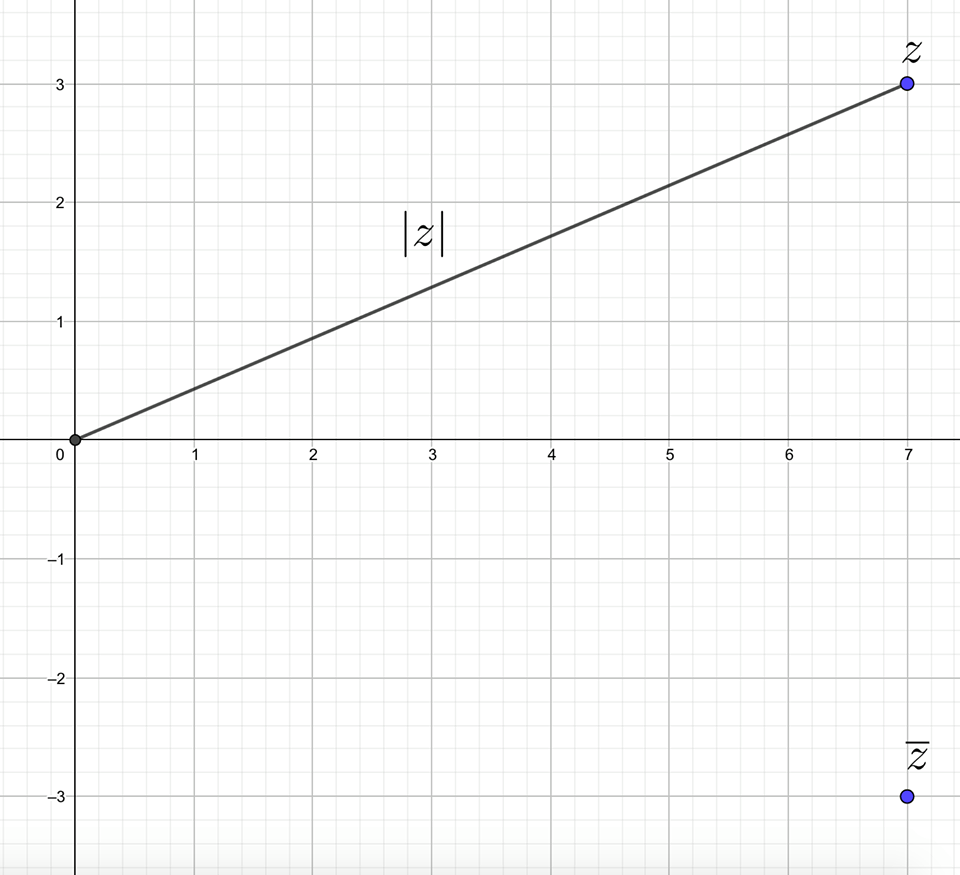
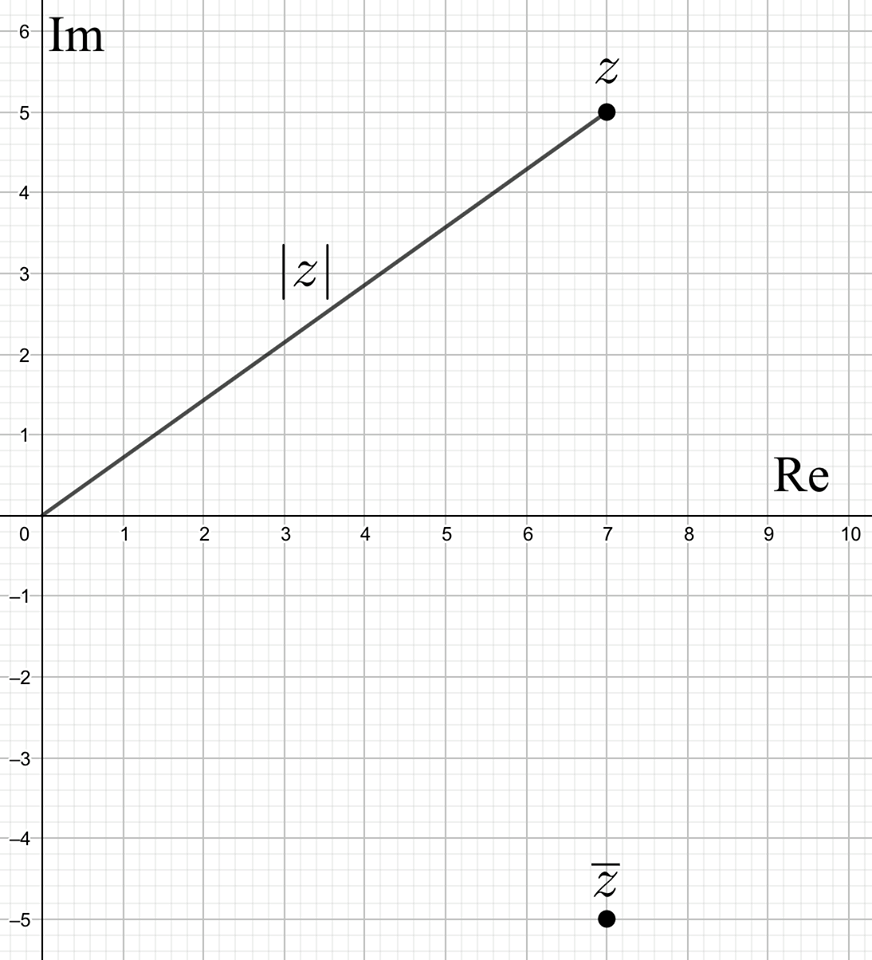
Update complex_plan.png, complex_plan_polar.png, and 5 more files...

diff --git a/incl/main/complex_numbers.tex b/incl/main/complex_numbers.tex
@@ -1,7 +1,9 @@
 \chapter{Complex Numbers}
 
 \section{Intro}
-In the following chapter these sources are used as background information \cite{complexpaul}, \cite{complexpurple}, \cite{complexnotebook}.
+In the following chapter these sources are used as background information \cite{complexpaul}, \cite{complexpurple}, \cite{complexnotebook}. In this chapter firstly the concept of complex numbers will be describes, secondly complex numbers in polar coordinates, and lastly complex numbers all with the corresponding properties of their mathematical operations.
+\\  
+\\
 When simply using real numbers, you cannot always get the right answer to a given equation. An example of this could be the equation $x^2=-1$. Therefore sometimes we have to use complex numbers, which uses the imaginary unit $i$.
 \begin{align*}
 i=\sqrt{-1}.
@@ -25,19 +27,16 @@ If $i$ is raised to a greater power, it will loop through the same values again.
 	i^{4n+3} =& i^{4n}i^3 = -i \\
 	i^{4n+4} =& i^{4n}i^4 = 1
 \end{align*}
-Complex numbers are often notated as $z = a+ib$. A complex number consists of a real part, and an imaginary part. The real, and imaginary, part of a complex number, is written as $\text{Re}\{z\}=a$ and $\text{Im}\{z\}=b$ respectively.
+Complex numbers are notated as $z = a+ib$. A complex number consists of a real part, and an imaginary part. The real, and imaginary, part of a complex number, is written as $\text{Re}\{z\}=a$ and $\text{Im}\{z\}=b$ respectively.
 \\
 \\
-An example of a complex numbers could be: $7+3i$, where 7 is the real part and 3 is the imaginary part. If $\text{Re}\{z\}=0$ the number is said to be pure imaginary. 
-By using these complex numbers, infinitely more numbers can be created. 
-%An example of this is the numbers: $2i$ and $-7i$, these are called pure imaginary numbers. When writing pure imaginary numbers you use the form $bi$, where $b$ is a real number that is not $0$. \\
-%If you put another part on these imaginary numbers, thus $a+bi$ you get the complex numbers. Example $3+4i$ and $-12i+6$. In this case, $a$ is the real part and $b$, where $i$ is, is the imaginary part. $a$ and $b$ are real numbers. By using this method you can make all pure imaginary numbers into a complex number by writing it like this: $0+3i$. $3i$ does not stand alone anymore and is, therefore, a complex number now. You can also rewrite every real number into a complex by doing this $2+0i$. \\
-%By using complex numbers you can, therefore, find a solution to any given polynomial equation. \\ 
+An example of a complex number could be: $z=7+3i$, where 7 is the real part and 3 is the imaginary part. If $\text{Re}\{z\}=0$ the number is said to be pure imaginary.  
+\\
 Complex numbers are plotted on the complex plane. The complex plane consist of two axis, the real part and the imaginary part. An example of this is shown in the picture below.
 \begin{figure}[H]
 \centering
-\includegraphics[scale=0.25]{fig/img/complex_plan}
-\caption{The complex plane with the point $z=7+3i$}
+\includegraphics[scale=0.2]{fig/img/complex_plan}
+\caption{The complex plane with the number $z=7+3i$, it's conjugate $\bar{z}=7-3i$, and $|z|$}
 \end{figure}
 \noindent
 The length from origin to the complex number is called modulus or absolute value of the number.
@@ -110,17 +109,32 @@ Given two complex numbers $z_1=18+10i$ and $z_2=3+2i$ can be found using \Cref{d
 \end{example}
 From the example $\frac{37}{9} - \frac{1}{3}i$ is now on the form $a+ib$ with a and b being fractions. In the example the denominator is being conjugated and as a result of that the imaginary part of the denominator $ib$ disappears and is only left in the numerator. 
 \section{Complex Numbers in Polar form}
-Complex numbers in polar form is written on the form $(r,\theta)$, where $r$ is the distance from origin to the point $z$. $\theta$ is the angle from the real axis, when measured counter-clockwise. It will be negative if measured clockwise. \\
-$r$ is also the modulus of $z$ and is therefore never negative $r=\mid z\mid$. $\theta$ is also an argument of z, this is written as $\theta=arg(z)$. %skal jeg have en forklaring på hvorfor det skal skrives på denne måde?
-\\ 
-The rectangular coordinates can be rewritten to polar coordinates. For this $a$ is expressed as $x=r\cdot \cos(\theta)$ and $bi$ is expressed as $bi=i\cdot r\cdot \sin(\theta)$. \\
-$z$ is the expressed as:
-$$z=r\cdot \cos(\theta) + i\cdot r\cdot \sin(\theta)$$
-This can be rewritten as:
-\begin{align*}
-z=r(\cos(\theta)+i \sin(\theta))
-\end{align*}
-\begin{theorem}{Multiplication in polar form}{}
+A complex number $z=a+ib$ in polar form is written on the form $(r,\theta)$, where $r$ is the distance from origin to the point $z$. $\theta$ is the angle from the real axis, when measured counter-clockwise. The angle of a complex number is denoted as $\arg(z)=\theta$.
+of this is shown in the figure \ref{fig:complex_plane_polar} below.
+\begin{figure}[H] 
+\centering
+\includegraphics[scale=0.15]{fig/img/complex_plan_polar}
+\caption{The complex plane with $z=a+ib$ plotted in terms of polar coordinates and Cartesian coordinates}
+\label{fig:complex_plane_polar}
+\end{figure}
+\noindent
+It can be derived from \ref{fig:complex_plane_polar} that the coordinates of $z=a+ib$ can be expressed as follows:
+\begin{align}
+\text{Re}\{z\}=r\cos(\theta)
+\\
+\text{Im}\{z\}=r\sin(\theta)
+\end{align}
+\\
+\begin{definition}{Complex number in polar form}{}
+A complex number $z=a+ib$ can be written in polar form as follows:
+\begin{align}
+z&=r\cos(\theta)+ir\sin(\theta)
+\\
+&=r\left(\cos(\theta)+i\sin(\theta)\right).
+\end{align}
+Where $r=\mid z \mid$ and $\theta=\tan^{-1}\left(\dfrac{b}{a} \right)$
+\end{definition}
+\begin{theorem}{Multiplication in polar form}{complex:multi}
 Given two complex numbers $z_1$ and $z_2$ where.
 \begin{align*}
 z_1=r_1(\cos(\theta_1)+i\sin(\theta_1)) 
@@ -131,6 +145,12 @@ The multiplication of these are given by
 \begin{align*}
 z_1 z_2=r_1r_2\left( \cos(\theta_1+\theta_2)+ i \sin(\theta_1+\theta_2)\right)
 \end{align*}
+From this the following relations can be concluded:
+\begin{align}
+\arg(z_1z_2)&=\arg(z_1)+\arg(z_2)
+\\
+|z_1z_2|&=|z_1||z_2|
+\end{align}
 \end{theorem}
 \begin{prof}{Multiplication in polar form}{}
 \begin{align}
@@ -154,6 +174,39 @@ These definitions are inserted in \eqref{polar_multiplication}.
 z_1 z_2=r_1r_2\left( \cos(\theta_1+\theta_2)+ i \sin(\theta_1+\theta_2)\right)
 \end{align*}
 \end{prof}
+\begin{theorem}{Division in polar form}{}
+Given two complex numbers
+\begin{align*}
+z_1=r_1(\cos(\theta_1)+i\sin(\theta_1)) 
+\\
+z_2=r_2(\cos(\theta_2)+i\sin(\theta_2))
+\end{align*}
+The division of these are given by:
+\begin{align*}
+\dfrac{z_1}{z_2}=\dfrac{r_1}{r_2}\Big( \cos(\theta_1-\theta_2)+ i \sin(\theta_1-\theta_2)\Big)
+\end{align*}
+From this the following relations can be concluded:
+\begin{align}
+\arg\Big(\dfrac{z_1}{z_2}\Big)&=\arg(z_1)-\arg(z_2)
+\\
+\Big|\dfrac{z_1}{z_2}\Big|&=\dfrac{|z_1|}{|z_2|}
+\end{align}
+\end{theorem}
+\begin{prof}{}{}
+\begin{align}
+\dfrac{z_1}{z_2}&=\dfrac{r_1\bigg(\cos(\theta_1)+i\sin(\theta_1)\bigg)}{r_2\bigg(\cos(\theta_2)+i\sin(\theta_2)\bigg)}
+\end{align}
+Multiply both sides by $r_2\bigg(\cos(\theta_2)-i\sin(\theta_2)\bigg)$
+\begin{align}
+\dfrac{z_1}{z_2}&=\dfrac{r_1\bigg(\cos(\theta_1)+i\sin(\theta_1)\bigg)r_2\bigg(\cos(\theta_2)-i\sin(\theta_2)\bigg)}{r_2\bigg(\cos(\theta_2)+i\sin(\theta_2)\bigg)r_2\bigg(\cos(\theta_2)-i\sin(\theta_2)\bigg)}
+\end{align}
+From \Cref{complex:multi} this can we rewritten as:
+\begin{align}
+\dfrac{z_1}{z_2}&=\dfrac{r_1r_2\bigg(\cos(\theta_1-\theta_2)+i\sin(\theta_1-\theta_2)\bigg)}{{r_2}^2\bigg(\cos(\theta_2-\theta_2)+i\sin(\theta_2-\theta_2)\bigg)}
+\\
+&=\dfrac{r_1}{r_2}\Big( \cos(\theta_1-\theta_2)+ i \sin(\theta_1-\theta_2)\Big)
+\end{align}
+\end{prof}
 \section{The Complex Exponential Equation}
 The concept of the complex exponential function is useful in circuit analysis. However it must be defined, as it is not entirely obvious what $e$ raised to a complex number means.
 \\
@@ -170,7 +223,7 @@ Any complex number can be expressed in the form:
 \begin{align*}
 	z \cdot t = (a + ib)t,
 \end{align*}
-where $a, b, \textbf{and} t$ are real numbers, and $i$ is the imaginary unit.
+where $a,~b,~\textbf{and}~t$ are real numbers, and $i$ is the imaginary unit.
 \\
 \\
 The complex exponential function is then defined as:
@@ -178,9 +231,8 @@ The complex exponential function is then defined as:
 	f(t)=e^{zt}=e^{at}e^{ibt}=e^{at}\left(\cos(bt)+i\sin(bt)\right)
 \end{align*}
 \end{definition}
-
+\noindent
 Given this definition of the complex exponential function, it can then be shown that the conditions set earlier will hold.
-
 \begin{theorem}{Multiplication of complex numbers in exponential form}{}
 Given two complex numbers in exponential form $e^{z_1}$ and $e^{z_2}$ where:
 \begin{align*}
@@ -229,11 +281,6 @@ Where $z=a+ib$. The differentiation of this function is given by:
 \dfrac{d}{dt}e^{zt}=ze^{zt}
 \end{align*}
 \end{theorem}
-%\begin{prof}{}{}
-%Given $z=a+ib$, the exponential function of this number is:
-%\begin{align}
-%f(z)=e^{z}=e^{a}(\cos(b)+i\sin(b))=e^{a}\cos(b)+e^{a}i\sin(b)
-%\end{align}
-%\end{prof}
 \input{incl/profs/ezt_diff_proof.tex}
+\noindent
 It is then shown that the given definition for the complex exponential function, the conditions we set will hold.

diff --git a/incl/main/rc_circuit.tex b/incl/main/rc_circuit.tex
@@ -7,81 +7,85 @@ An RC circuit is an electrical circuit consisting of resistors and capacitors. I
  \caption{An RC circuit with a battery, a capacitor and a resistor}
 \end{figure}
 
-\noindent If both sides of \eqref{QCV} are differentiated  with respect to $t$:
-\begin{align}
-	\frac{dq}{dt} &= C \cdot \frac{dv}{dt} 
-\end{align}
-From \eqref{I=dq/dt}, the left-hand side can be rewritten as:
-\begin{align}
-	I_C = C \cdot \frac{dv}{dt}\label{I_C}
-\end{align}
+\noindent 
 \subsection{Transient Analysis}
 \label{sec371}
 To find out how the voltage of a capacitor changes over time when it is charged and discharged, transient analysis is used.
 \\
 \\
-\textbf{Charging of a Capacitor}\\
-In subsection \ref{Klaws}, KCL states that the sum of the currents in a node is equal to zero. In the case of an RC circuit, the law can be written as the following equation:
+\textbf{Discharge of a Capacitor}\\
+In subsection \ref{Klaws}, KCL states that the sum of the currents in a node is equal to zero. In the case of an RC circuit with, the law can be written as the following equation:
 \begin{align}
 I_{C}+I_{R}&=0 \nonumber \\
 I_{C}&= -I_{R} \label{Ic-Ir}
 \end{align}
-Inserting the definition of the current through the capacitor \eqref{I_C} and the resistor \eqref{Ohm} into \eqref{Ic-Ir}, yields a differential equation, which can then be separated as stated in section \ref{SepDiff}:
+Inserting \eqref{I_C} for the capacitor and \eqref{Ohm} for the resistor into \eqref{Ic-Ir}, yields a differential equation, which can then be separated as stated in section \ref{SepDiff}:
 \begin{align*}
-C \dfrac{dv}{dt}&=\dfrac{-V}{R} \\
-\dfrac{dv}{dt} &= -V\dfrac{1}{RC} \\
-\frac{1}{V}dv &= \frac{-1}{RC}dt
+C \dfrac{dv_C(t)}{dt}&=\dfrac{-v_R(t)}{R} \\
+\dfrac{dv_C(t)}{dt} &= -v_R(t)\dfrac{1}{RC} \\
+\end{align*}
+When discharging the capacitor the algebraic sum of voltages can be written as:
+\begin{align*}
+v_C(t)-v_R(t)=0 \Leftrightarrow v_C(t)=-v_R(t)
+\end{align*}
+\begin{align*}
+\Rightarrow
+\dfrac{dv_C(t)}{dt} &= v_C(t)\dfrac{1}{RC} \\
+\dfrac{1}{v_C(t)}dv_C(t)&=\dfrac{1}{RC}dt
 \end{align*}
 The equation is now in the same form as \eqref{SDEG}, and can be solved as following:
+\begin{align*}
+\int \dfrac{1}{v_C(t)}dv_C(t) =& \dfrac{-1}{RC} \int dt\nonumber \\
+\ln(v_C(t)) =& \dfrac{-t}{RC} + A \nonumber\\
+\end{align*}
+Where $A$ is the constant of integration from the left and right side of the equation.
 \begin{align}
-\int \dfrac{1}{V}dv =& \dfrac{-1}{RC} \int dt\nonumber \\
-\ln(V) =& \dfrac{-t}{RC} + A \nonumber\\
-V =& e^{\frac{-t}{RC}}e^{A}\label{V_eA}
+v_C(t) =& e^{\frac{-t}{RC}}e^{A}\label{V_eA}
 \end{align}
-Since $A$ is the constant of integration, $e^A$ is a constant aswell.
+Since $A$ is the constant of integration, $e^A$ is a constant aswell. To find the constant, the initial condition is needed. 
 \\
-By definition, the starting voltage of the capacitor is given by $V_C(t=0)=V_0$:
+By definition, the initial voltage of the capacitor is given as $v_C(t=0)=V_0$:
  \begin{align*}
-	V_C(0) &= e^{\frac{0}{RC}}e^A\\
-	V_C(0) &= e^A
+	v_C(0) &= e^{\frac{0}{RC}}e^A\\
+	v_C(0) &= e^A
  \end{align*}
-Therefore $e^A = V_0$, and this can be inserted into \eqref{V_eA}:
+Therefore $e^A = V_0$, where $V_0$ is the starting voltage when the capacitor discharges. This can be inserted into \eqref{V_eA}:
 \begin{align}
 \label{V_down}
 \Aboxed{
- V(t) = V_0e^{\frac{-t}{RC}}
+ v_C(t) = V_0e^{\frac{-t}{RC}}
  }
 \end{align}
 The function in \eqref{V_down} describes how the voltage decreases over time, when the capacitor is discharged.
 \\
 \\
-\textbf{Discharging of a Capacitor}\\
+\textbf{Charging of a Capacitor}\\
 In subsection \ref{Klaws}, KVL states that the sum of the voltages over a loop must be equal to zero. 
 \\
 In an RC circuit with a battery, the algebraic sum can be written as:
 \begin{align}
-V_B-V_R-V_C =& 0 \nonumber \\
+V_B-v_R(t)-v_C(t) =& 0 \nonumber \\
 V_B=&V_R+V_C \label{V_B}
 \end{align}
 $V_R$ and $V_C$ have negative signs, since their elements create a negative potential difference when charge passes through them.
 \\
-From \eqref{Ohm}, the voltage drop across the resistor can be expressed as $V_R=IR$. From \eqref{QCV} the voltage drop across the capacitor can be expressed as $V_C=\dfrac{Q}{C}$. This is inserted into \eqref{V_B}:
+From \eqref{Ohm}, the voltage drop across the resistor can be expressed as $V_R=I_RR$. From \eqref{QCV} the voltage drop across the capacitor can be expressed as $V_C=\dfrac{Q}{C}$. This is inserted into \eqref{V_B}:
 \begin{align}
-V_B =& IR+\dfrac{Q}{C} \label{Vb=IR}
+V_B =& I_RR+\dfrac{Q}{C} \label{Vb=IR}
 \end{align}
-As stated in \eqref{I=dq/dt}, current is defined as $I =\dfrac{dq}{dt}$, and this is inserted into \eqref{Vb=IR}.
+From \eqref{I=dq/dt}, the current through a resistor can be defined as $I_R =\dfrac{dQ}{dt}$, and this is inserted into \eqref{Vb=IR}.
  \begin{align*}
- 	V_B &= \frac{dq}{dt} R + \frac{Q}{C}
+ 	V_B &= \frac{dQ}{dt} R + \frac{Q}{C}
  \end{align*}
 Both sides are divided by $R$:
 \begin{align}
-\dfrac{V_B}{R} &= \dfrac{dq}{dt} + \dfrac{1}{RC}Q\label{Vb/R} 
+\dfrac{V_B}{R} &= \dfrac{dQ}{dt} + \dfrac{1}{RC}Q\label{Vb/R} 
 \end{align}
 This is now a linear differential equation of the first order in the form of \eqref{FODE_form}:
 \begin{align*}
 \dfrac{dy}{dx}+h(x)y=g(x)
 \end{align*}
-If the conditions for the general solution for a linear differential equation of the first order are fulfilled, \eqref{Vb/R} can be solved like in \Cref{linethe}:
+If the conditions for the general solution for a linear differential equation of the first order are fulfilled, \eqref{Vb/R} can be solved as in \Cref{theorem:panzer}:
 \begin{align*}
 y&=e^{-H(x)}\left(\int e^{H(x)}g(x)dx+C\right)
 \end{align*}
@@ -95,7 +99,7 @@ H(x) &= \int \dfrac{1}{RC}dt=\dfrac{t}{RC}
 \\
 g(x) &= \dfrac{V_B}{R}
 \\
-\dfrac{dy}{dx} &= \dfrac{dq}{dt}
+\dfrac{dy}{dx} &= \dfrac{dQ}{dt}
 \end{align*}
 Then the general solution for \eqref{Vb/R} is:
 \begin{align*}

diff --git a/incl/main/high_low.tex b/incl/main/high_low.tex
@@ -35,6 +35,28 @@ The output wave before the cut-off point will stay almost unchanged, and after t
 High-pass: \\
 When plotting the graph for the high-pass filter, the bode plot is going to be the opposite of the low-pass filters'. The graph starts in minus decibel and is approaching zero. Until it reaches the cut-off point, the graph is increasing with 20 decibel per decade. When reaching the cut-off point, the graph is 3 decibel short from reaching zero. Furthermore, $70.7\% (100\%-29.3\%)$ of the amplitude is cut off at the point $f_{cutoff}$.
 \section{Derivations}
+In section REF the following equation is is derived
+\begin{align} \label{eq:dV_C}
+\dfrac{dv_C(t)}{dt}=-v_R(t)\dfrac{1}{RC}
+\end{align}
+In this case the sum of all voltages is $v_{input}+v_R(t)-v_C(t)=0$ which can be rewritten as $v_{input}(t)=v_C(t)-v_{input}(t)$. $v_{input}(t)$ is a function of time in the case of a circuit with AC. This is inserted into \eqref{eq:dV_C}.
+\begin{align}
+\Rightarrow \dfrac{dv_C(t)}{dt}=-\Big(v_C(t)-v_{input}(t)\Big)\dfrac{1}{RC}
+\end{align}
+$\omega$ is defined as $\omega=\dfrac{1}{RC}$
+\begin{align}
+\Rightarrow \dfrac{dv_C(t)}{dt}=-\Big(v_C(t)-v_{input}\Big)\omega
+\\
+\Leftrightarrow v_{input}(t)\omega=v_C(t)\omega+\dfrac{dv_C(t)}{dt}
+\end{align}
+The differential equation can now be solved using Laplace transform.
+\begin{align}\label{eq:laplace_low}
+\mathcal{L}\Big\{v_{input}(t)\Big\}\omega=\mathcal{L}\Big\{v_C(t)\Big\}\omega+\mathcal{L}\bigg\{\dfrac{dv_C}{dt}\bigg\}
+\end{align}
+According to \Cref{theorem:laplace_diff} the Laplace transform of \eqref{eq:laplace_low} yields the following equation:
+\begin{align}
+V_{input}(s)\omega=V_C(s)\omega-v_c(0)+V_C(s)s
+\end{align} 
 - Evt cutoff frequency ???
 \section{Experiment}
 - Describe experiment (purpose - what does it mean?

diff --git a/incl/main/laplace.tex b/incl/main/laplace.tex
@@ -97,7 +97,7 @@ Let $F(s) = \dfrac{4}{s+10}$. When recognizing this takes the same form as the r
 \end{example}
 The Laplace transform can be applied to the derivatives of multiple orders. In particular, the Laplace transform of the first order derivative, since it is essential when looking at the high and low-pass filters.
 %mere tekst/bedre overgang
-\begin{theorem}{Laplace transform of a first order derivative}{}
+\begin{theorem}{Laplace transform of a first order derivative}{theorem:lap_diff}
 The Laplace-transform of a first order derivative takes the following form:
 $$\mathcal{L} \left\{\frac{df}{dt} \right\} = s \cdot F(s)-f(0)$$
 \end{theorem}

diff --git a/incl/main/diff_eq.tex b/incl/main/diff_eq.tex
@@ -43,7 +43,7 @@ where $a_k(x)$ are continuous functions on a given interval.
 \end{definition}
 \subsection{Solving a linear differential equation of the first order}
 Solving differential  is not always easy or possible. For differential equations in certain forms a general solution can in some cases be derived.
-\begin{theorem}{General solution to a linear differential equation of the first order}{}
+\begin{theorem}{General solution to a linear differential equation of the first order}{theorem:panzer}
 A first order linear differential equation in the form of:
 \begin{align} \label{FODE_form}
 \dfrac{dy}{dx}+h(x)y=g(x),
